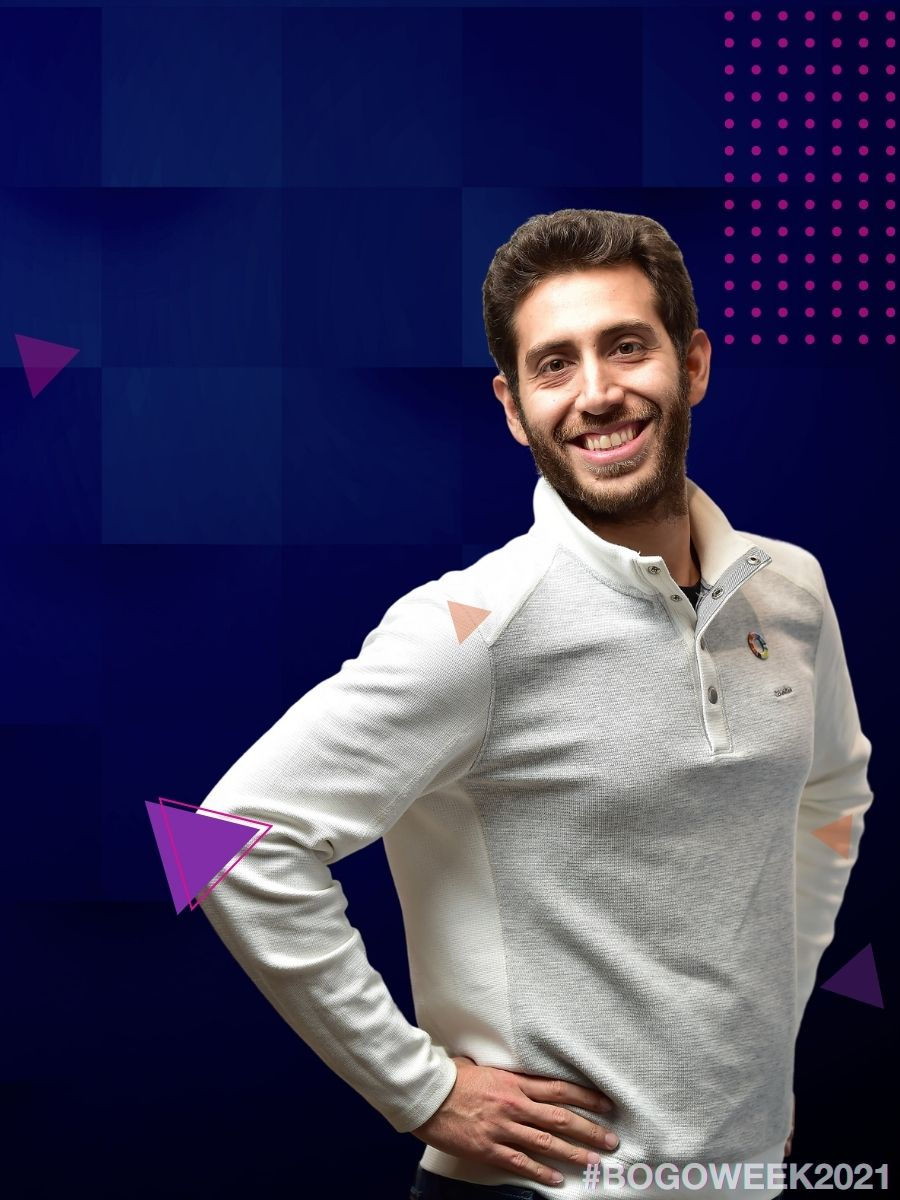
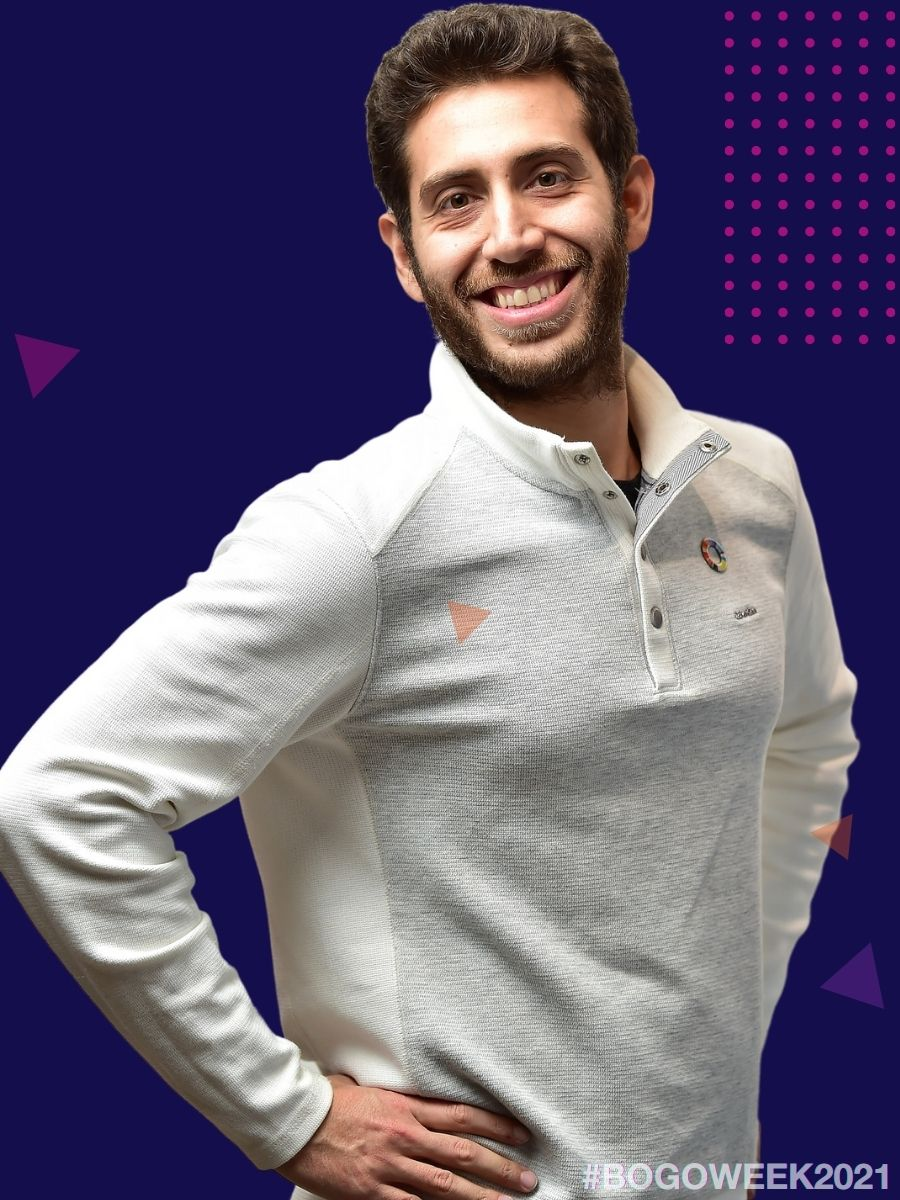
update speakers

diff --git a/index.html b/index.html
@@ -5,7 +5,7 @@
 <span class=text-underline>2.000+ participantes</span></h4><h1 class=wow data-splitting>BOGOWEEK</h1><ul class="list-inline list-inline-md"><li><div class="unit unit-spacing-xs align-items-center wow" data-splitting><div class="unit-left line-height-reset"><svg class="svg-icon-sm svg-icon-primary" role="img"><use xlink:href="images/svg/sprite.svg#earth-globe"/></svg></div><div class=unit-body><h5 class=text-spacing-100><span class=big>Bogotá, Colombia</span></h5></div></div></li><li><div class="unit unit-spacing-xs align-items-center wow" data-splitting><div class="unit-left line-height-reset"><svg class="svg-icon-sm svg-icon-primary" role="img"><use xlink:href="images/svg/sprite.svg#small-calendar"/></svg></div><div class=unit-body><h5 class=text-spacing-100><span class=big><time datetime=2019-01-05>22-28 Febrero 2021</time></span></h5></div></div></li></ul><div class=group><a class="button button-secondary box-with-triangle-right wow fadeScale" href=https://youtu.be/nsohnXL4rWo data-triangle=.button-overlay target=_blank><span>Ver video de 2020</span>
 <span class=button-overlay></span></a><a class="button button-primary wow fadeScale" href="https://bogoweek2021.eventbrite.com/?aff=bloomshift" data-triangle=.button-overlay target=_blank><span>Regístrese Gratis</span>
 <span class=button-overlay></span></a></div></div></div></div><div class="swiper-container swiper-slider swiper-slider-1" data-loop=true data-simulate-touch=false data-autoplay=8500 data-direction=horizontal data-effect=fade><div class=swiper-wrapper><div class=swiper-slide data-slide-bg=https://bogotastartupweek.com/twk/img/slide-01.jpg></div><div class=swiper-slide data-slide-bg=https://bogotastartupweek.com/twk/img/slide-02.jpg></div></div><div class=swiper-pagination></div></div><div class=section-swiper-content-overlay></div><div class=parallax-js-moderm><div class="layer layer-01"><svg width="126" height="126" viewbox="0 0 126 126" fill="none" xmlns="http://www.w3.org/2000/svg"><mask id="mask00" maskunits="userSpaceOnUse" x="0" y="0" width="126" height="126"><path d="M126 63C126 97.7939 97.7939 126 63 126 28.2061 126 0 97.7939.0 63 0 28.2061 28.2061.0 63 0 97.7939.0 126 28.2061 126 63z"/></mask><g mask="url(#mask00)"><path d="M61.2694-27.0047-26.9917 61.2563-22.5793 65.6687 65.6817-22.5924 61.2694-27.0047z"/><path d="M71.0589-17.2147-17.2021 71.0464-12.7898 75.4587l88.261-88.261L71.0589-17.2147z"/><path d="M80.8724-7.39484-7.38867 80.8662-2.97632 85.2786 85.2847-2.98249 80.8724-7.39484z"/><path d="M90.6785 2.42205 2.41748 90.6831 6.82983 95.0955 95.0909 6.83441 90.6785 2.42205z"/><path d="M100.485 12.215 12.2236 100.476 16.636 104.888 104.897 16.6274 100.485 12.215z"/><path d="M110.298 22.0353 22.0371 110.296 26.4495 114.709 114.711 26.4476 110.298 22.0353z"/><path d="M120.095 31.8322 31.8335 120.093 36.2458 124.506 124.507 36.2445 120.095 31.8322z"/><path d="M129.901 41.6452 41.6401 129.906 46.0525 134.319 134.314 46.0575 129.901 41.6452z"/><path d="M139.698 51.4421 51.4365 139.703 55.8489 144.115 144.11 55.8544 139.698 51.4421z"/><path d="M149.521 61.2721 61.2598 149.533 65.6721 153.946 153.933 65.6845 149.521 61.2721z"/></g></svg></div><div class="layer layer-02"><svg width="95" height="65" viewbox="0 0 95 65" fill="none" xmlns="http://www.w3.org/2000/svg"><circle cx="2.50049" cy="62.5005" r="2.5"/><circle cx="20.5005" cy="62.5005" r="2.5"/><circle cx="38.5005" cy="62.5005" r="2.5"/><circle cx="56.5005" cy="62.5005" r="2.5"/><circle cx="74.5005" cy="62.5005" r="2.5"/><circle cx="92.5005" cy="62.5005" r="2.5"/><circle cx="2.50049" cy="42.5005" r="2.5"/><circle cx="20.5005" cy="42.5005" r="2.5"/><circle cx="38.5005" cy="42.5005" r="2.5"/><circle cx="56.5005" cy="42.5005" r="2.5"/><circle cx="74.5005" cy="42.5005" r="2.5"/><circle cx="92.5005" cy="42.5005" r="2.5"/><circle cx="2.50049" cy="22.5005" r="2.5"/><circle cx="20.5005" cy="22.5005" r="2.5"/><circle cx="38.5005" cy="22.5005" r="2.5"/><circle cx="56.5005" cy="22.5005" r="2.5"/><circle cx="74.5005" cy="22.5005" r="2.5"/><circle cx="92.5005" cy="22.5005" r="2.5"/><circle cx="2.50049" cy="2.50049" r="2.5"/><circle cx="20.5005" cy="2.50049" r="2.5"/><circle cx="38.5005" cy="2.50049" r="2.5"/><circle cx="56.5005" cy="2.50049" r="2.5"/><circle cx="74.5005" cy="2.50049" r="2.5"/><circle cx="92.5005" cy="2.50049" r="2.5"/></svg></div><div class="layer layer-03"><svg width="26" height="18" viewbox="0 0 26 18" xmlns="http://www.w3.org/2000/svg"><path d="M13 0 25.1244 18H.875645L13 0z"/></svg></div><div class="layer layer-04"><svg width="83" height="83" viewbox="0 0 83 83" xmlns="http://www.w3.org/2000/svg"><rect y="41.0122" width="58" height="58" transform="rotate(-45 0 41.0122)"/></svg></div><div class="layer layer-05"><svg width="103" height="103" viewbox="0 0 103 103" xmlns="http://www.w3.org/2000/svg"><circle cx="60.9647" cy="98.604" r="2.5" transform="rotate(-45 60.9647 98.604)"/><circle cx="73.6928" cy="85.876" r="2.5" transform="rotate(-45 73.6928 85.876)"/><circle cx="86.4208" cy="73.1479" r="2.5" transform="rotate(-45 86.4208 73.1479)"/><circle cx="99.1483" cy="60.4204" r="2.5" transform="rotate(-45 99.1483 60.4204)"/><circle cx="46.8226" cy="84.4619" r="2.5" transform="rotate(-45 46.8226 84.4619)"/><circle cx="59.5507" cy="71.7339" r="2.5" transform="rotate(-45 59.5507 71.7339)"/><circle cx="72.2787" cy="59.0059" r="2.5" transform="rotate(-45 72.2787 59.0059)"/><circle cx="85.0062" cy="46.2783" r="2.5" transform="rotate(-45 85.0062 46.2783)"/><circle cx="32.6806" cy="70.3198" r="2.5" transform="rotate(-45 32.6806 70.3198)"/><circle cx="45.4086" cy="57.5918" r="2.5" transform="rotate(-45 45.4086 57.5918)"/><circle cx="58.1366" cy="44.8638" r="2.5" transform="rotate(-45 58.1366 44.8638)"/><circle cx="18.5385" cy="56.1777" r="2.5" transform="rotate(-45 18.5385 56.1777)"/><circle cx="31.2665" cy="43.4497" r="2.5" transform="rotate(-45 31.2665 43.4497)"/><circle cx="4.39637" cy="42.0356" r="2.5" transform="rotate(-45 4.39637 42.0356)"/></svg></div><div class="layer layer-06"><div class=layer-06-inner><svg width="18" height="18" viewbox="0 0 18 18" xmlns="http://www.w3.org/2000/svg"><circle cx="9" cy="9" r="9"/></svg></div></div><div class="layer layer-07"><div class=layer-07-inner><svg width="18" height="18" viewbox="0 0 18 18" xmlns="http://www.w3.org/2000/svg"><circle cx="9" cy="9" r="9"/></svg></div></div><div class="layer layer-08"><svg width="198" height="141" viewbox="0 0 198 141" xmlns="http://www.w3.org/2000/svg"><line x1="38.3619" y1=".646447" x2="178.35" y2="140.634"/><line x1="57.3658" y1=".646447" x2="197.353" y2="140.634"/><line x1=".353553" y1=".646447" x2="140.341" y2="140.634"/><line x1="19.3575" y1=".646447" x2="159.345" y2="140.634"/></svg></div><div class="layer layer-09"><svg width="122" height="122" viewbox="0 0 122 122" xmlns="http://www.w3.org/2000/svg"><mask id="mask11" maskunits="userSpaceOnUse" x="17" y="17" width="87" height="87"><path d="M91.2168 30.4054C108.009 47.198 108.009 74.4241 91.2168 91.2166 74.4242 108.009 47.1981 108.009 30.4056 91.2166 13.613 74.4241 13.613 47.198 30.4056 30.4054 47.1981 13.6129 74.4242 13.6129 91.2168 30.4054z"/></mask><g mask="url(#mask11)"><path d="M16.5371 18.2077V103.402h4.2591V18.2077H16.5371z"/><path d="M25.9868 18.2078V103.402h4.2591V18.2078H25.9868z"/><path d="M35.4624 18.2107V103.405H39.7215V18.2107H35.4624z"/><path d="M44.9331 18.2161V103.411H49.1922V18.2161H44.9331z"/><path d="M54.3921 18.2097V103.404h4.259V18.2097h-4.259z"/><path d="M63.8677 18.2126V103.407h4.259V18.2126h-4.259z"/><path d="M73.3242 18.2131V103.408H77.5833V18.2131H73.3242z"/><path d="M82.7935 18.216v85.195h4.259V18.216h-4.259z"/><path d="M92.2495 18.2165V103.411H96.5086V18.2165H92.2495z"/><path d="M101.735 18.2199V103.415h4.259V18.2199h-4.259z"/></g></svg></div><div class="layer layer-10"><svg width="53" height="48" viewbox="0 0 53 48" xmlns="http://www.w3.org/2000/svg"><path d="M21.5295 5.85179 52.1481 36.4704 10.3223 47.6776 21.5295 5.85179z"/></svg></div><div class="layer layer-11"><svg width="26" height="18" viewbox="0 0 26 18" xmlns="http://www.w3.org/2000/svg"><path d="M13 0 25.1244 18H.875645L13 0z"/></svg></div></div></section><section class="section section-lg bg-default text-center"><div class=container><div class=block-about><div class=block-about-content><h6>BOGOWEEK VIRTUAL 2021</h6><h3 class=block-about-title>Más de 30 sesiones anunciadas</h3><p>Presentamos BOGOWEEK Virtual, una experiencia digital del 22 al 28 de febrero de 2021. Un evento de clase mundial que reune a los actores del ecosistema emprendendor de Colombia. Una semana llena de conferencias, charlas, talleres y la oportunidad de conectarse con toda la comunidad emprendedora.</p></div><img class="block-about-img wow fadeScale" src=https://bogotastartupweek.com/twk/img/section-01.jpeg alt width=830 height=440 loading=lazy></div></div></section><hr><section class="section section-md bg-default text-center"><div class=container><div class="row row-30 row-bordered"><div class="col-6 col-md-3 row-bordered-item"><div class="wow fadeInUp" data-wow-delay=.3><div class=box-counter><div class=box-counter-main><div class=counter>7</div></div><p class=box-counter-title>Dias</p></div></div></div><div class="col-6 col-md-3 row-bordered-item"><div class="wow fadeInUp" data-wow-delay=.4><div class=box-counter><div class=box-counter-main><div class=counter>35</div></div><p class=box-counter-title>Sesiones</p></div></div></div><div class="col-6 col-md-3 row-bordered-item"><div class="wow fadeInUp" data-wow-delay=.5><div class=box-counter><div class=box-counter-main><div class=counter>60</div></div><p class=box-counter-title>Speakers</p></div></div></div><div class="col-6 col-md-3 row-bordered-item"><div class="wow fadeInUp" data-wow-delay=.6><div class=box-counter><div class=box-counter-main><div class=counter>2000</div></div><p class=box-counter-title>Participantes</p></div></div></div></div></div></section><section class="parallax-container section" data-parallax-img=images/bg-parallax-01-1894x1200.jpg><div class="parallax-content section-lg context-dark text-center text-lg-left parallax-overlay-gradient-primary"><div class=container><div class="row row-30 align-items-center"><div class=col-lg-5><h6>El tiempo se acaba</h6><h3>Reserve su entrada GRATIS</h3></div><div class="col-lg-7 text-lg-right"><div class="countdown countdown-classic" data-countdown=data-countdown data-to=2021-2-22><div class="countdown-block wow fadeScale countdown-block-days" data-wow-delay=0s><div class=countdown-wrap><div class=countdown-title>dys</div><div class=countdown-counter data-counter-days>00</div></div></div><div class="countdown-block wow fadeScale countdown-block-hours" data-wow-delay=0.125s><div class=countdown-wrap><div class=countdown-title>hrs</div><div class=countdown-counter data-counter-hours>00</div></div></div><div class="countdown-block wow fadeScale countdown-block-minutes" data-wow-delay=0.25s><div class=countdown-wrap><div class=countdown-title>min</div><div class=countdown-counter data-counter-minutes>00</div></div></div><div class="countdown-block wow fadeScale countdown-block-seconds" data-wow-delay=0.375s><div class=countdown-wrap><div class=countdown-title>sec</div><div class=countdown-counter data-counter-seconds>00</div></div></div></div></div></div></div></div></section><section class="section section-md bg-gray-100 text-center"><div class=container><div class="row row-30 justify-content-center justify-content-lg-between"><div class="col-md-10 col-lg-5 text-lg-left"><a name=speakers><h6 class=text-secondary>Conoce a nuestros</h6></a><h3>Speakers 2021</h3><p>Historias inspiradoras y desafíos que activan la inteligencia colectiva.</p><a class="button button-secondary button-offset-xl wow fadeScale" href=https://bogotastartupweek.com/ data-triangle=.button-overlay><span>Nuevos se anuncian cada semana!</span>
-<span class=button-overlay></span></a></div><div class=col-lg-6><div class="row row-30"><div class=col-sm-6><div class=wow><div class=speaker-classic><div class=speaker-classic-img><a href=https://www.linkedin.com/in/yanire/ target=_blank><img src=https://bogotastartupweek.com/twk/img/speakers/bogoweek21-yanireBrana.jpg alt width=270 height=303 loading=lazy></a></div><h5 class=speaker-classic-title><a href=https://www.linkedin.com/in/yanire/ target=_blank>Yanire Braña</a></h5><p class=speaker-classic-position>MET Community</p></div></div></div><div class=col-sm-6><div class=wow><div class=speaker-classic><div class=speaker-classic-img><a href=https://www.linkedin.com/in/claudiosaavedrah/ target=_blank><img src=https://bogotastartupweek.com/twk/img/speakers/bogoweek21-claudioSaavedra.jpg alt width=270 height=303 loading=lazy></a></div><h5 class=speaker-classic-title><a href=https://www.linkedin.com/in/claudiosaavedrah/ target=_blank>Claudio Saavedra</a></h5><p class=speaker-classic-position>Genial.ly</p></div></div></div></div></div><div class="col-sm-6 col-lg-3"><div class=wow><div class=speaker-classic><div class=speaker-classic-img><a href=https://www.linkedin.com/in/lorenaalejandrarodriguez/ target=_blank><img src=https://bogotastartupweek.com/twk/img/speakers/bogoweek21-lorenaRodriguez.jpg alt width=270 height=303 loading=lazy></a></div><h5 class=speaker-classic-title><a href=https://www.linkedin.com/in/lorenaalejandrarodriguez/ target=_blank>Lorena Rodríguez</a></h5><p class=speaker-classic-position>WishUP Digital</p></div></div></div><div class="col-sm-6 col-lg-3"><div class=wow><div class=speaker-classic><div class=speaker-classic-img><a href=https://www.linkedin.com/in/manuelavillegas/ target=_blank><img src=https://bogotastartupweek.com/twk/img/speakers/bogoweek21-manuelaVillegas.jpg alt width=270 height=303 loading=lazy></a></div><h5 class=speaker-classic-title><a href=https://www.linkedin.com/in/manuelavillegas/ target=_blank>Manuela Villegas</a></h5><p class=speaker-classic-position>SI SR</p></div></div></div><div class="col-sm-6 col-lg-3"><div class=wow><div class=speaker-classic><div class=speaker-classic-img><a href=https://www.linkedin.com/in/manuela-pe%C3%B1a-g%C3%B3mez-637150119/ target=_blank><img src=https://bogotastartupweek.com/twk/img/speakers/bogoweek21-manuelaPena.jpg alt width=270 height=303 loading=lazy></a></div><h5 class=speaker-classic-title><a href=https://www.linkedin.com/in/manuela-pe%C3%B1a-g%C3%B3mez-637150119/ target=_blank>Manuela Peña</a></h5><p class=speaker-classic-position>CEIS</p></div></div></div><div class="col-sm-6 col-lg-3"><div class=wow><div class=speaker-classic><div class=speaker-classic-img><a href=https://www.linkedin.com/in/stevenarodriguez target=_blank><img src=https://bogotastartupweek.com/twk/img/speakers/bogoweek21-stevenRodriguez.jpg alt width=270 height=303 loading=lazy></a></div><h5 class=speaker-classic-title><a href=https://www.linkedin.com/in/stevenarodriguez target=_blank>Steven A. Rodríguez</a></h5><p class=speaker-classic-position>Techstars</p></div></div></div></div></div></section><section class="section parallax-js section-lg bg-default text-center"><div class=container><h6>Lo que otros dicen</h6><h3>sobre BOGOWEEK</h3><div class="row row-30 justify-content-center"><div class="col-md-10 col-lg-8"><div class="slick-slider child-slick-slider" id=child-carousel data-for=.carousel-parent data-arrows=true data-loop=false data-dots=false data-swipe=true data-items=3 data-sm-items=3 data-md-items=3 data-lg-items=3 data-xl-items=3 data-slide-to-scroll=1><div class=item><a><img src=https://bogotastartupweek.com/twk/img/testimonial/giancarlo.png alt="photo of eli" width=80 height=80 loading=lazy></a></div><div class=item><a><img src=https://bogotastartupweek.com/twk/img/testimonial/flor.png alt="photo of eli" width=80 height=80 loading=lazy></a></div><div class=item><a><img src=https://bogotastartupweek.com/twk/img/testimonial/eli.png alt="photo of eli" width=80 height=80 loading=lazy></a></div></div><div class="slick-slider carousel-parent" data-arrows=false data-loop=true data-autoplay=true data-dots=false data-swipe=true data-items=1 data-child=#child-carousel data-for=#child-carousel><div class=item><div class=testimonial><div class="wow fadeIn"><p class="testimonial-text heading-4">El asombroso futuro de las conferencias tecnológicas.</p><ul class=list-inline><li><span class="icon icon-sm icon-secondary fa-star"></span></li><li><span class="icon icon-sm icon-secondary fa-star"></span></li><li><span class="icon icon-sm icon-secondary fa-star"></span></li><li><span class="icon icon-sm icon-secondary fa-star"></span></li><li><span class="icon icon-sm icon-secondary fa-star-half-empty"></span></li></ul><div class=testimonial-footer><a class=testimonial-name href=#>Giancarlo Hicapié</a>
+<span class=button-overlay></span></a></div><div class=col-lg-6><div class="row row-30"><div class=col-sm-6><div class=wow><div class=speaker-classic><div class=speaker-classic-img><a href=https://www.linkedin.com/in/yanire/ target=_blank><img src=https://bogotastartupweek.com/twk/img/speakers/bogoweek21-yanireBrana.jpg alt="yanire brana" width=270 height=303 loading=lazy></a></div><h5 class=speaker-classic-title><a href=https://www.linkedin.com/in/yanire/ target=_blank>Yanire Braña</a></h5><p class=speaker-classic-position>MET Community</p></div></div></div><div class=col-sm-6><div class=wow><div class=speaker-classic><div class=speaker-classic-img><a href=https://www.linkedin.com/in/claudiosaavedrah/ target=_blank><img src=https://bogotastartupweek.com/twk/img/speakers/bogoweek21-claudioSaavedra.jpg alt="claudio saavedra" width=270 height=303 loading=lazy></a></div><h5 class=speaker-classic-title><a href=https://www.linkedin.com/in/claudiosaavedrah/ target=_blank>Claudio Saavedra</a></h5><p class=speaker-classic-position>Genial.ly</p></div></div></div></div></div><div class="col-sm-6 col-lg-3"><div class=wow><div class=speaker-classic><div class=speaker-classic-img><a href=https://www.linkedin.com/in/lorenaalejandrarodriguez/ target=_blank><img src=https://bogotastartupweek.com/twk/img/speakers/bogoweek21-lorenaRodriguez.jpg alt="lorena rodriguez" width=270 height=303 loading=lazy></a></div><h5 class=speaker-classic-title><a href=https://www.linkedin.com/in/lorenaalejandrarodriguez/ target=_blank>Lorena Rodríguez</a></h5><p class=speaker-classic-position>WishUP Digital</p></div></div></div><div class="col-sm-6 col-lg-3"><div class=wow><div class=speaker-classic><div class=speaker-classic-img><a href="https://kathedice.com/?utm_source=bogoweek.co" target=_blank><img src=https://bogotastartupweek.com/twk/img/speakers/bogoweek21-katherineLoaiza.jpg alt="katherine loaiza" width=270 height=303 loading=lazy></a></div><h5 class=speaker-classic-title><a href="https://kathedice.com/?utm_source=bogoweek.co" target=_blank>Katherine Loaiza</a></h5><p class=speaker-classic-position>Go Lab Cosmetics</p></div></div></div><div class="col-sm-6 col-lg-3"><div class=wow><div class=speaker-classic><div class=speaker-classic-img><a href=https://www.linkedin.com/in/manuela-pe%C3%B1a-g%C3%B3mez-637150119/ target=_blank><img src=https://bogotastartupweek.com/twk/img/speakers/bogoweek21-manuelaPena.jpg alt="manuela pena" width=270 height=303 loading=lazy></a></div><h5 class=speaker-classic-title><a href=https://www.linkedin.com/in/manuela-pe%C3%B1a-g%C3%B3mez-637150119/ target=_blank>Manuela Peña</a></h5><p class=speaker-classic-position>CEIS</p></div></div></div><div class="col-sm-6 col-lg-3"><div class=wow><div class=speaker-classic><div class=speaker-classic-img><a href=https://www.linkedin.com/in/stevenarodriguez target=_blank><img src=https://bogotastartupweek.com/twk/img/speakers/bogoweek21-stevenRodriguez.jpg alt="steven a. rodriguez" width=270 height=303 loading=lazy></a></div><h5 class=speaker-classic-title><a href=https://www.linkedin.com/in/stevenarodriguez target=_blank>Steven A. Rodríguez</a></h5><p class=speaker-classic-position>Techstars</p></div></div></div></div></div></section><section class="section parallax-js section-lg bg-default text-center"><div class=container><h6>Lo que otros dicen</h6><h3>sobre BOGOWEEK</h3><div class="row row-30 justify-content-center"><div class="col-md-10 col-lg-8"><div class="slick-slider child-slick-slider" id=child-carousel data-for=.carousel-parent data-arrows=true data-loop=false data-dots=false data-swipe=true data-items=3 data-sm-items=3 data-md-items=3 data-lg-items=3 data-xl-items=3 data-slide-to-scroll=1><div class=item><a><img src=https://bogotastartupweek.com/twk/img/testimonial/giancarlo.png alt="photo of eli" width=80 height=80 loading=lazy></a></div><div class=item><a><img src=https://bogotastartupweek.com/twk/img/testimonial/flor.png alt="photo of eli" width=80 height=80 loading=lazy></a></div><div class=item><a><img src=https://bogotastartupweek.com/twk/img/testimonial/eli.png alt="photo of eli" width=80 height=80 loading=lazy></a></div></div><div class="slick-slider carousel-parent" data-arrows=false data-loop=true data-autoplay=true data-dots=false data-swipe=true data-items=1 data-child=#child-carousel data-for=#child-carousel><div class=item><div class=testimonial><div class="wow fadeIn"><p class="testimonial-text heading-4">El asombroso futuro de las conferencias tecnológicas.</p><ul class=list-inline><li><span class="icon icon-sm icon-secondary fa-star"></span></li><li><span class="icon icon-sm icon-secondary fa-star"></span></li><li><span class="icon icon-sm icon-secondary fa-star"></span></li><li><span class="icon icon-sm icon-secondary fa-star"></span></li><li><span class="icon icon-sm icon-secondary fa-star-half-empty"></span></li></ul><div class=testimonial-footer><a class=testimonial-name href=#>Giancarlo Hicapié</a>
 <span class=testimonial-cite>- Industria Licorera de Caldas</span></div></div></div></div><div class=item><div class=testimonial><div class="wow fadeIn"><p class="testimonial-text heading-4">BOGOWEEK sigue siendo la respuesta más frecuente cuando les pregunto a otras personas sobre la conferencia a la que más quieren asistir este año.</p><ul class=list-inline><li><span class="icon icon-sm icon-secondary fa-star"></span></li><li><span class="icon icon-sm icon-secondary fa-star"></span></li><li><span class="icon icon-sm icon-secondary fa-star"></span></li><li><span class="icon icon-sm icon-secondary fa-star"></span></li><li><span class="icon icon-sm icon-secondary fa-star-half-empty"></span></li></ul><div class=testimonial-footer><a class=testimonial-name href=#>Flor Liévano</a>
 <span class=testimonial-cite>- OrangeUP Inc.</span></div></div></div></div><div class=item><div class=testimonial><div class="wow fadeIn"><p class="testimonial-text heading-4">Techstars Startup Week es una de las conferencias de empresas emergentes más importantes del mundo.</p><ul class=list-inline><li><span class="icon icon-sm icon-secondary fa-star"></span></li><li><span class="icon icon-sm icon-secondary fa-star"></span></li><li><span class="icon icon-sm icon-secondary fa-star"></span></li><li><span class="icon icon-sm icon-secondary fa-star"></span></li><li><span class="icon icon-sm icon-secondary fa-star"></span></li></ul><div class=testimonial-footer><a class=testimonial-name href=#>Eli Becerril Wong</a>
 <span class=testimonial-cite>- Techstars</span></div></div></div></div></div></div></div></div><div class="layer layer-01"><svg width="126" height="126" viewbox="0 0 126 126" fill="none" xmlns="http://www.w3.org/2000/svg"><mask id="mask0" maskunits="userSpaceOnUse" x="0" y="0" width="126" height="126"><path d="M126 63C126 97.7939 97.7939 126 63 126 28.2061 126 0 97.7939.0 63 0 28.2061 28.2061.0 63 0 97.7939.0 126 28.2061 126 63z"/></mask><g mask="url(#mask0)"><path d="M61.2694-27.0047-26.9917 61.2563-22.5793 65.6687 65.6817-22.5924 61.2694-27.0047z"/><path d="M71.0589-17.2147-17.2021 71.0464-12.7898 75.4587l88.261-88.261L71.0589-17.2147z"/><path d="M80.8724-7.39484-7.38867 80.8662-2.97632 85.2786 85.2847-2.98249 80.8724-7.39484z"/><path d="M90.6785 2.42205 2.41748 90.6831 6.82983 95.0955 95.0909 6.83441 90.6785 2.42205z"/><path d="M100.485 12.215 12.2236 100.476 16.636 104.888 104.897 16.6274 100.485 12.215z"/><path d="M110.298 22.0353 22.0371 110.296 26.4495 114.709 114.711 26.4476 110.298 22.0353z"/><path d="M120.095 31.8322 31.8335 120.093 36.2458 124.506 124.507 36.2445 120.095 31.8322z"/><path d="M129.901 41.6452 41.6401 129.906 46.0525 134.319 134.314 46.0575 129.901 41.6452z"/><path d="M139.698 51.4421 51.4365 139.703 55.8489 144.115 144.11 55.8544 139.698 51.4421z"/><path d="M149.521 61.2721 61.2598 149.533 65.6721 153.946 153.933 65.6845 149.521 61.2721z"/></g></svg></div><div class="layer layer-02"><svg width="95" height="65" viewbox="0 0 95 65" fill="none" xmlns="http://www.w3.org/2000/svg"><circle cx="2.50049" cy="62.5005" r="2.5"/><circle cx="20.5005" cy="62.5005" r="2.5"/><circle cx="38.5005" cy="62.5005" r="2.5"/><circle cx="56.5005" cy="62.5005" r="2.5"/><circle cx="74.5005" cy="62.5005" r="2.5"/><circle cx="92.5005" cy="62.5005" r="2.5"/><circle cx="2.50049" cy="42.5005" r="2.5"/><circle cx="20.5005" cy="42.5005" r="2.5"/><circle cx="38.5005" cy="42.5005" r="2.5"/><circle cx="56.5005" cy="42.5005" r="2.5"/><circle cx="74.5005" cy="42.5005" r="2.5"/><circle cx="92.5005" cy="42.5005" r="2.5"/><circle cx="2.50049" cy="22.5005" r="2.5"/><circle cx="20.5005" cy="22.5005" r="2.5"/><circle cx="38.5005" cy="22.5005" r="2.5"/><circle cx="56.5005" cy="22.5005" r="2.5"/><circle cx="74.5005" cy="22.5005" r="2.5"/><circle cx="92.5005" cy="22.5005" r="2.5"/><circle cx="2.50049" cy="2.50049" r="2.5"/><circle cx="20.5005" cy="2.50049" r="2.5"/><circle cx="38.5005" cy="2.50049" r="2.5"/><circle cx="56.5005" cy="2.50049" r="2.5"/><circle cx="74.5005" cy="2.50049" r="2.5"/><circle cx="92.5005" cy="2.50049" r="2.5"/></svg></div><div class="layer layer-03"><svg width="26" height="18" viewbox="0 0 26 18" xmlns="http://www.w3.org/2000/svg"><path d="M13 0 25.1244 18H.875645L13 0z"/></svg></div><div class="layer layer-04"><svg width="83" height="83" viewbox="0 0 83 83" xmlns="http://www.w3.org/2000/svg"><rect y="41.0122" width="58" height="58" transform="rotate(-45 0 41.0122)"/></svg></div><div class="layer layer-05"><svg width="103" height="103" viewbox="0 0 103 103" xmlns="http://www.w3.org/2000/svg"><circle cx="60.9647" cy="98.604" r="2.5" transform="rotate(-45 60.9647 98.604)"/><circle cx="73.6928" cy="85.876" r="2.5" transform="rotate(-45 73.6928 85.876)"/><circle cx="86.4208" cy="73.1479" r="2.5" transform="rotate(-45 86.4208 73.1479)"/><circle cx="99.1483" cy="60.4204" r="2.5" transform="rotate(-45 99.1483 60.4204)"/><circle cx="46.8226" cy="84.4619" r="2.5" transform="rotate(-45 46.8226 84.4619)"/><circle cx="59.5507" cy="71.7339" r="2.5" transform="rotate(-45 59.5507 71.7339)"/><circle cx="72.2787" cy="59.0059" r="2.5" transform="rotate(-45 72.2787 59.0059)"/><circle cx="85.0062" cy="46.2783" r="2.5" transform="rotate(-45 85.0062 46.2783)"/><circle cx="32.6806" cy="70.3198" r="2.5" transform="rotate(-45 32.6806 70.3198)"/><circle cx="45.4086" cy="57.5918" r="2.5" transform="rotate(-45 45.4086 57.5918)"/><circle cx="58.1366" cy="44.8638" r="2.5" transform="rotate(-45 58.1366 44.8638)"/><circle cx="18.5385" cy="56.1777" r="2.5" transform="rotate(-45 18.5385 56.1777)"/><circle cx="31.2665" cy="43.4497" r="2.5" transform="rotate(-45 31.2665 43.4497)"/><circle cx="4.39637" cy="42.0356" r="2.5" transform="rotate(-45 4.39637 42.0356)"/></svg></div><div class="layer layer-06"><div class=layer-06-inner><svg width="18" height="18" viewbox="0 0 18 18" xmlns="http://www.w3.org/2000/svg"><circle cx="9" cy="9" r="9"/></svg></div></div><div class="layer layer-07"><div class=layer-07-inner><svg width="18" height="18" viewbox="0 0 18 18" xmlns="http://www.w3.org/2000/svg"><circle cx="9" cy="9" r="9"/></svg></div></div><div class="layer layer-08"><svg width="127" height="91" viewbox="0 0 127 91" xmlns="http://www.w3.org/2000/svg"><line x1="24.544" y1=".646447" x2="113.639" y2="89.7419"/><line x1="36.6392" y1=".646447" x2="125.735" y2="89.7419"/><line x1=".353553" y1=".646447" x2="89.449" y2="89.7419"/><line x1="12.4488" y1=".646447" x2="101.544" y2="89.7419"/></svg></div><div class="layer layer-09"><svg width="122" height="122" viewbox="0 0 122 122" xmlns="http://www.w3.org/2000/svg"><mask id="mask1" maskunits="userSpaceOnUse" x="17" y="17" width="87" height="87"><path d="M91.2168 30.4054C108.009 47.198 108.009 74.4241 91.2168 91.2166 74.4242 108.009 47.1981 108.009 30.4056 91.2166 13.613 74.4241 13.613 47.198 30.4056 30.4054 47.1981 13.6129 74.4242 13.6129 91.2168 30.4054z"/></mask><g mask="url(#mask1)"><path d="M16.5371 18.2077V103.402h4.2591V18.2077H16.5371z"/><path d="M25.9868 18.2078V103.402h4.2591V18.2078H25.9868z"/><path d="M35.4624 18.2107V103.405H39.7215V18.2107H35.4624z"/><path d="M44.9331 18.2161V103.411H49.1922V18.2161H44.9331z"/><path d="M54.3921 18.2097V103.404h4.259V18.2097h-4.259z"/><path d="M63.8677 18.2126V103.407h4.259V18.2126h-4.259z"/><path d="M73.3242 18.2131V103.408H77.5833V18.2131H73.3242z"/><path d="M82.7935 18.216v85.195h4.259V18.216h-4.259z"/><path d="M92.2495 18.2165V103.411H96.5086V18.2165H92.2495z"/><path d="M101.735 18.2199V103.415h4.259V18.2199h-4.259z"/></g></svg></div><div class="layer layer-10"><svg width="53" height="48" viewbox="0 0 53 48" xmlns="http://www.w3.org/2000/svg"><path d="M21.5295 5.85179 52.1481 36.4704 10.3223 47.6776 21.5295 5.85179z"/></svg></div></section><section class="parallax-container section" data-parallax-img=https://bogotastartupweek.com/twk/img/bg-parallax-05-1894x758.jpeg><div class="parallax-content section-lg context-dark text-center"><div class=container><div class="row row-30 justify-content-center"><div class="col-md-10 col-lg-8"><a class="video-link wow fadeScale" href=https://youtu.be/nsohnXL4rWo data-lightgallery=item><div class=video-link-bg data-triangle=.video-link-overlay><span class=video-link-overlay></span></div><span class="icon fa-play"></span></a><h6 class="text-secondary wow" data-splitting>Ver la emocion</h6><h2 class=wow data-splitting>de 2020</h2></div></div></div></div></section><section class="section section-lg bg-default text-center"><div class=container><a name=agenda><h6>Nuestra</h6></a><h3>Agenda 2021</h3><div class=col-12><a href=https://emamo.com/event/bogoweek2021 id=emamo-embed-link data-menu=off data-dark=off>BOGOWEEK 2021</a><script defer type=text/javascript src=https://emamo.com/js/embed.js defer></script></div></div></section><section class="section section-lg bg-gray-100 text-center"><div class=container><a name=tickets><h6>¡Nos vemos pronto!</h6></a><h3>REGÍSTRATE</h3><div class="row row-30"><div class="col-sm-6 col-lg-4"><div class=pricing><div class=pricing-header><h6 class=pricing-title>#BOGOWEEK2021</h6><p class="pricing-price heading-3">Gratis</p><p class=pricing-description>Talleres / Charlas / Networking</p></div><div class=pricing-body><ul class=pricing-list><li>Acceso a las charlaes y talleres virtuales</li><li>beneficios de nuestros aliados</li><li>Networking sobre toda Colombia</li><li>Acceso a la Ceremonia de Clausura</li></ul><a class="button button-primary wow fadeScale animated" href="https://bogoweek2021.eventbrite.com/?aff=bloomshift" data-triangle=.button-overlay target=_blank style=visibility:visible;animation-name:fadeScale><span>Regístrese gratis</span></a></div></div></div><div class="col-sm-6 col-lg-4"><div class=pricing><div class=pricing-header><h6 class=pricing-title>Techstars Startup Weekend</h6><p class="pricing-price heading-3">Gratis</p><p class=pricing-description>Lleva su idea a cabo en 54 horas</p></div><div class=pricing-body><ul class=pricing-list><li>Acceso al #BOGOWEEK2021</li><li>Acceso al bootcamp viernes a domingo</li><li>Acceso a mentores</li><li>Premios para los top 3 equipos</li></ul><a class="button button-primary wow fadeScale animated" href="https://bogoweek2021.eventbrite.com/?aff=bloomshift" data-triangle=.button-overlay target=_blank style=visibility:visible;animation-name:fadeScale><span>Regístrese gratis</span></a></div></div></div><div class="col-sm-6 col-lg-4"><div class=pricing><div class=pricing-header><h6 class=pricing-title>HUB-E</h6><p class="pricing-price heading-3">$120.000</p><p class=pricing-description>Experiencia de networking con duo de cócteles</p></div><div class=pricing-body><ul class=pricing-list><li>Acceso al #BOGOWEEK2021</li><li>Espacio exclusivo de networking</li><li>Cócteles en tu casa</li><li>Acompañado por un top mixólogo</li></ul><button class="button button-primary" type=submit data-triangle=.button-overlay>
